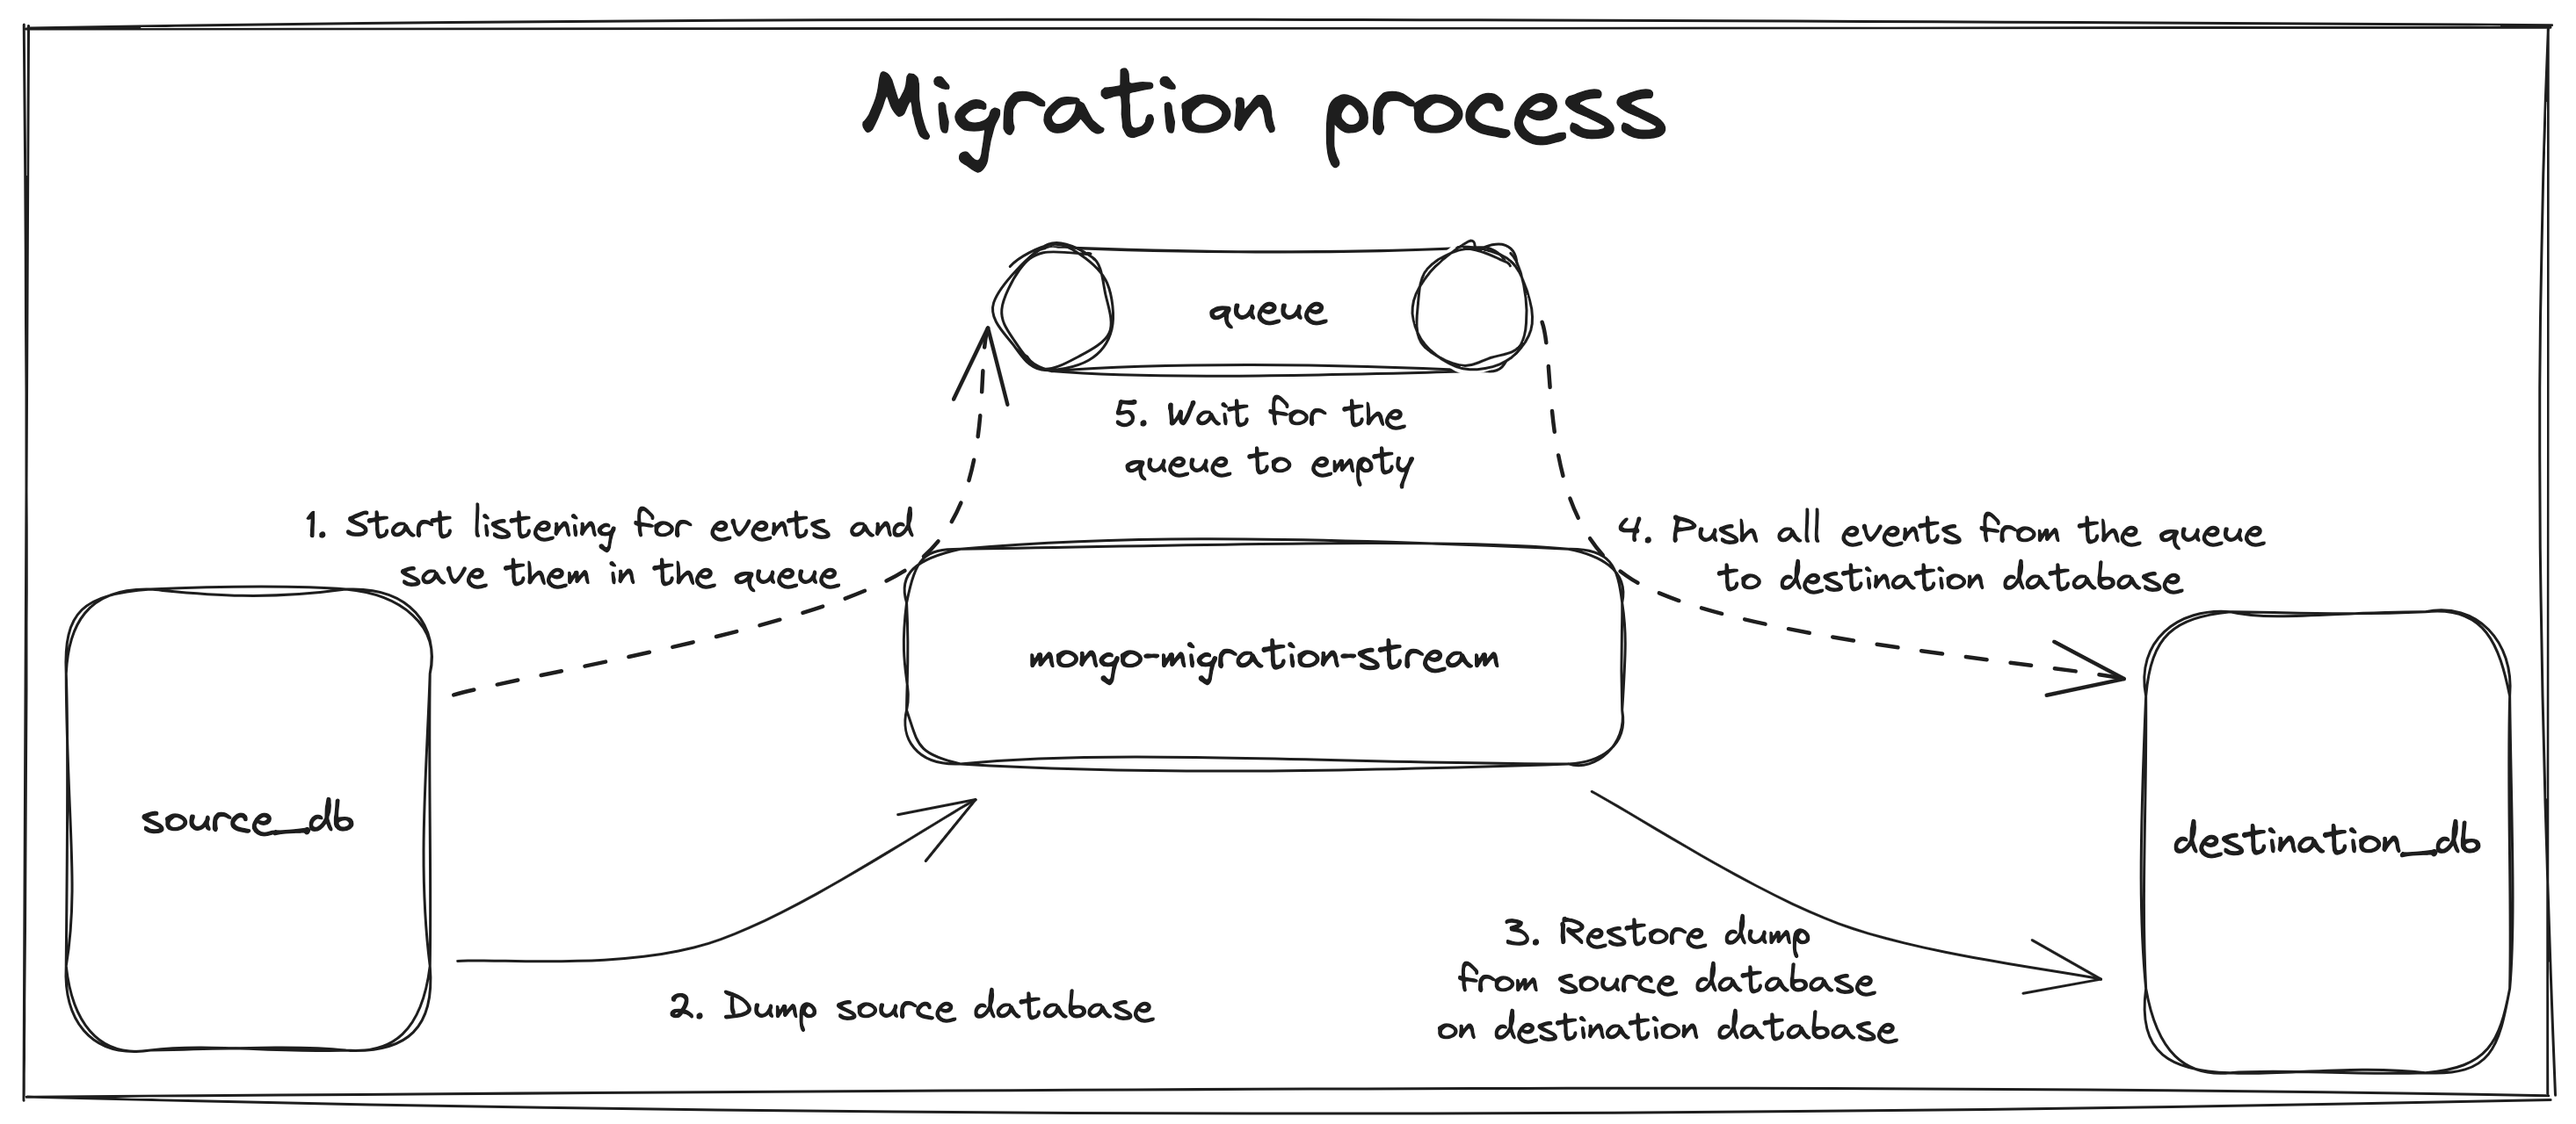
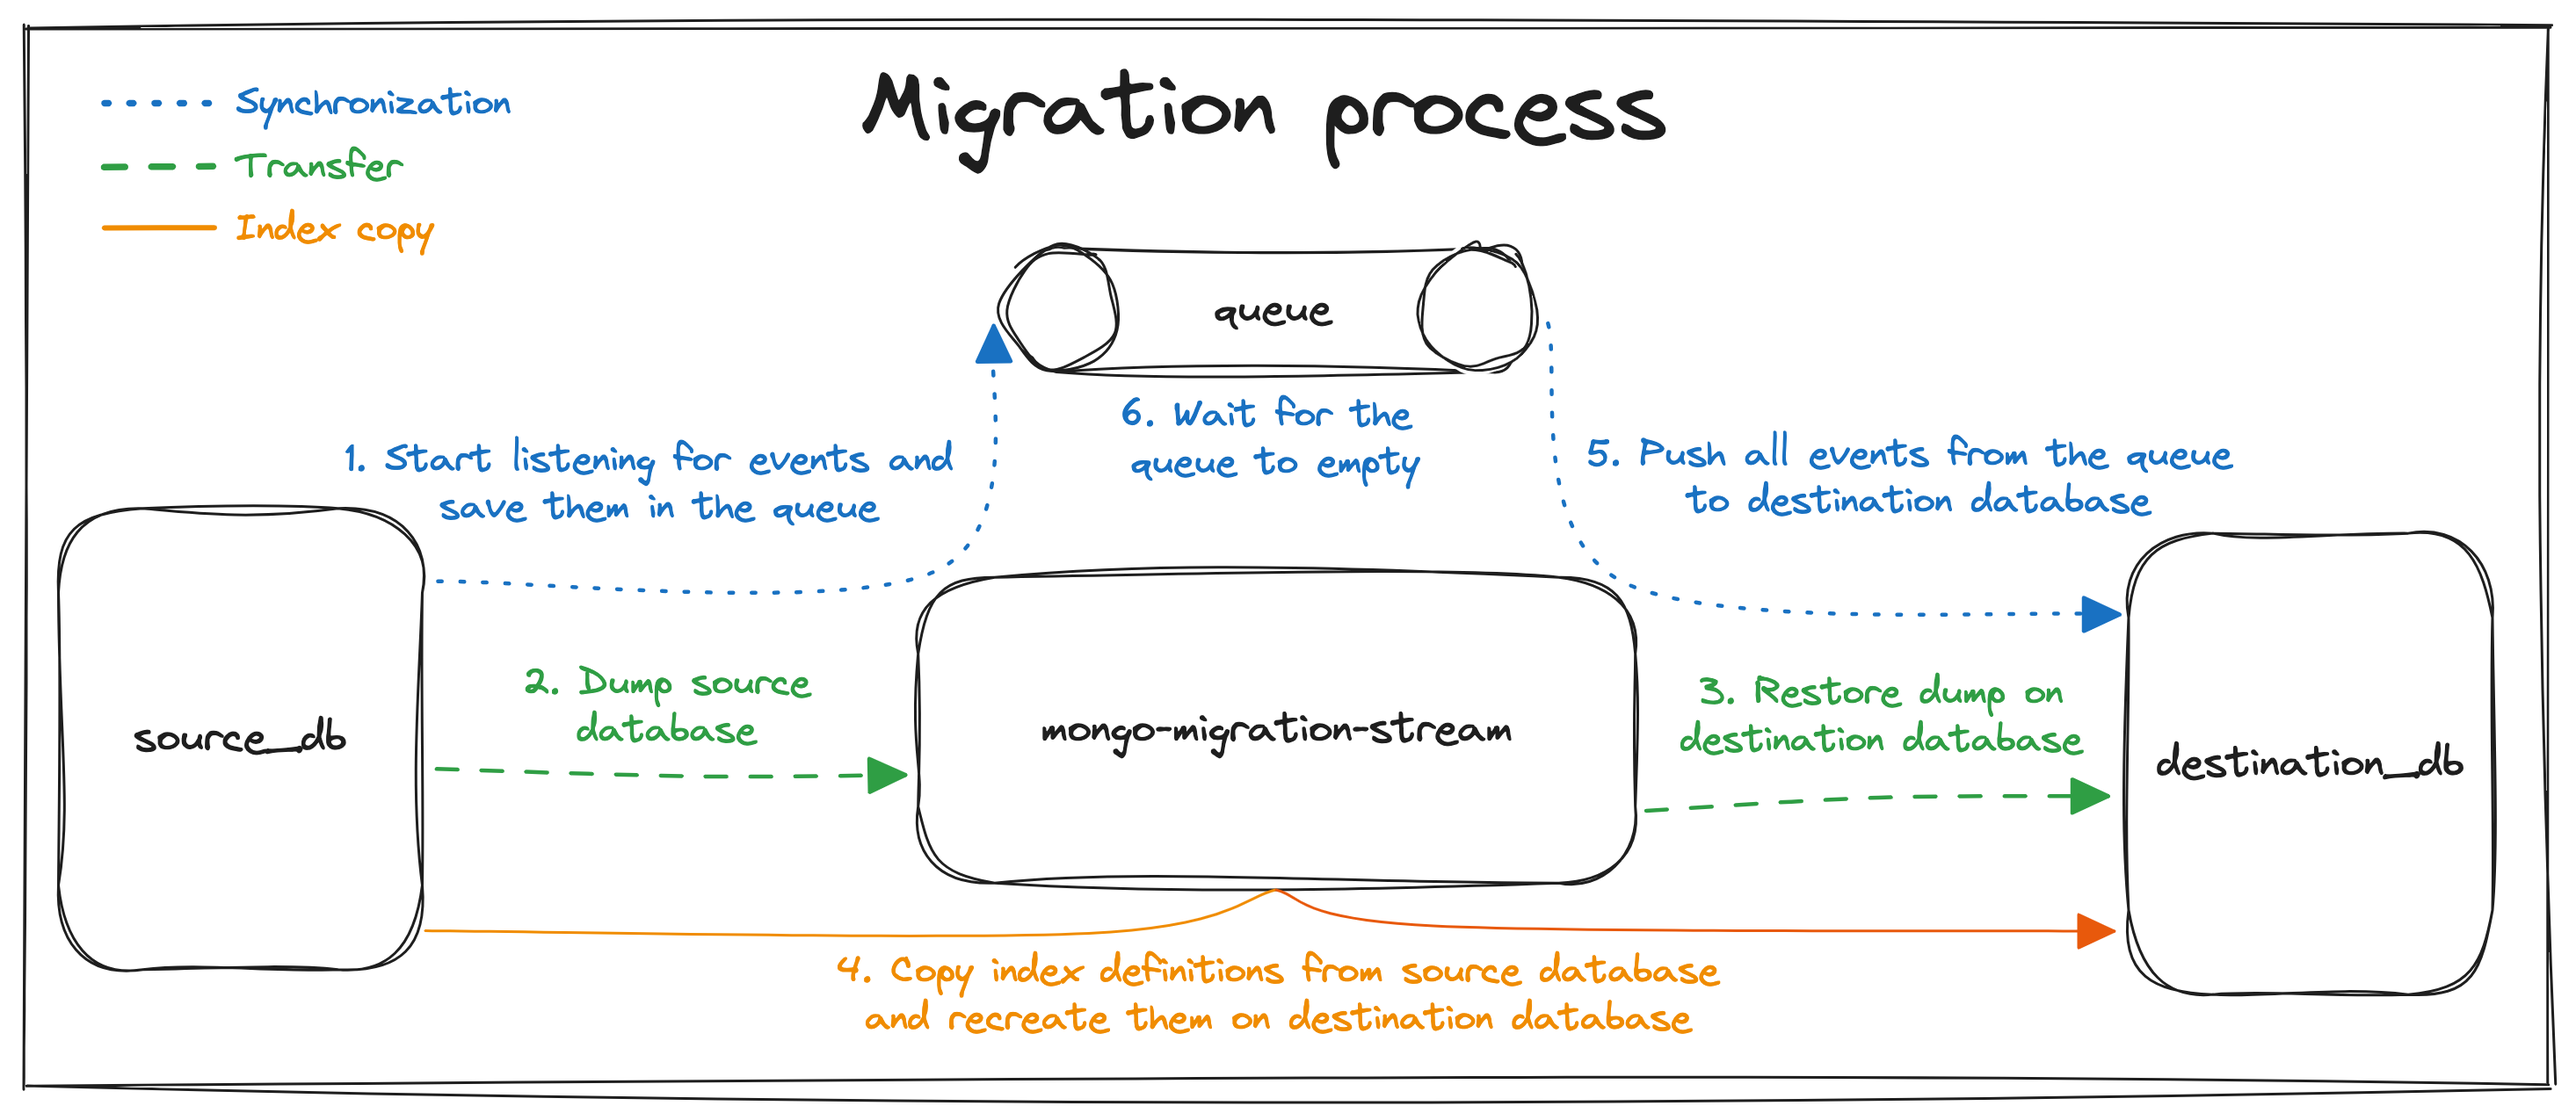
Polished next part of the article

diff --git a/_posts/2023-05-28-online-mongodb-migration.md b/_posts/2023-05-28-online-mongodb-migration.md
@@ -19,18 +19,18 @@ more effectively at the same time easing maintenance of clusters.
 
 ![Old approach](/img/articles/2023-05-28-online-mongodb-migration/one_cluster_multiple_databases.png)
 
-We've been living with this approach for years, but unfortunatelly with more and more databases created
-on various clusters it resulted in noisy neighbour problem.
+We've been living with this approach for years, but unfortunatelly with more and more databases
+created on same clusters we've started facing noisy neighbour problem.
 
 ### Noisy neighbour problem
 
 Generally speaking, noisy neighbour situation happens when one application consumes so much resources (like CPU, RAM or Storage),
 that it causes starvation of other applications running on the same infrastructure.
 
-In Allegro this problem started to be visible because over the years we created more and more new MongoDB databases
-which were distributed between fixed amount of clusters.
+In Allegro this problem started to be visible because over the years we've created more and more new MongoDB databases
+which were hosted on fixed amount of clusters.
 
-The most often cause of noisy neighbour problem in Allegro infrastructure was long time high CPU usage by one MongoDB database on a given cluster.
+The most often cause of noisy neighbour problem in Allegro infrastructure was long time high CPU usage caused by one of MongoDB databases on a given cluster.
 On various occasions it occured that non-optimal query performed on humongous collection was consuming too much CPU time,
 negativelly affecting all the other databases on that cluster by making them slower or completely unresponsive.
 
@@ -38,40 +38,40 @@ negativelly affecting all the other databases on that cluster by making them slo
 
 ### MongoDB on Kubernetes as a solution for noisy neighbours problem
 
-To solve noisy neighbours problem a separate team implemented the solution allowing Allegro developers to create independent MongoDB clusters on Kubernetes.
+To solve the noisy neighbours problem a separate team implemented a solution allowing Allegro developers to create independent MongoDB clusters on Kubernetes.
 From now, every new MongoDB cluster serves only one MongoDB database.
-Each cluster is formed from multiple replicasets and arbiter spread between datacenters.
-Running each database on separate cluster with isolated resources managed by Kubernetes solved our resource contention issue.
+Each cluster is formed from multiple replicasets and arbiter spread among datacenters.
+Running each database on separate cluster with isolated resources managed by Kubernetes was a solution for our noisy neighbour problem.
 
 ![Kubernetes CPU usage](/img/articles/2023-05-28-online-mongodb-migration/k8s_cpu.png)
 
 At this point we knew what we needed to do to solve our problems - we had to migrate all MongoDB databases from old shared clusters,
-to new independent clusters on Kubernetes. Now came more difficult part of _"how"_ should we do it.
+to new independent clusters on Kubernetes. Now came the difficult part of _"how"_ should we approach it.
 
 ## Available options
 
-One may ask _"Why can't you just connect new nodes to existing replicasets, and wait for data synchronization?"_  This solution would be the easiest one 
-(as it wouldn't require any additional software), but was impossible to implement in Allegro due to no network connection between old shared clusters
-and new Kubernetes clusters. Because of that, we needed to find some other way to perform migrations.
+One may ask _"Why can't you just connect new MongoDB replicas on Kubernetes to existing replicasets, and wait for data synchronization?"_ 
+This solution would be the easiest one (as it wouldn't require any additional software), but was impossible to implement in Allegro infrastructure
+due to no network connection between old shared clusters and new Kubernetes clusters.
+Because of that issue, we needed to find some other way to perform migrations.
 
-Firstly, we've started with preparing list of requirements,
-which needed to be met by a tool to migrate databases (referred to as _"migrator"_).
+Firstly, we've prepared a list of requirements which a tool for migrating databases (referred to as _"migrator"_) had to meet in order to perform
+successful migrations.
 
 ### Requirements
 
 - Migrator needs to support MongoDB versions from 3.6 to the newest one (at the time it was Mongo 6.0),
 - Migrator must be able to migrate databases from older versions of MongoDB to newer ones (e.g. from 3.6 to 6.0),
 - Migrator must be able to migrate replicasets and sharded clusters,
+- Migrator must copy indexes from source database to destination database,
+- Migrator must be able to handle more than 10k writes per second,
 - Migration must be performed without any downtime,
 - Migration cannot affect database clients,
-- Migrator must be able to handle more than 10k writes per second,
-- Migrator must copy indexes from source database to destination database,
-- Database owners need to be able to perform migration by themselves,
-- Migrator must be able to modify collection names.
+- Database owners (software engineers) need to be able to perform migrations on their own.
 
 ### Existing solutions
 
-With prepared list of requirements, we checked what tools were available on the market at the time.
+Having defined a list of requirements, we've checked what tools were available on the market at the time.
 
 #### [py-mongo-sync](https://github.com/caosiyang/py-mongo-sync)
 
@@ -82,7 +82,7 @@ Referring to documentation _py-mongo-sync_ is:
 
 After configuring _py-mongo-sync_ we realized that this tool doesn't suit our needs from end to end.
 _py-mongo-sync_ focuses mainly on synchronization of the data (it doesn't transfer existing data from source to destination database).
-What's more, at the time _py-mongo-sync_ supported MongoDB versions between 2.4 to 3.4, which were incompatible with ones used in Allegro.
+What's more, at the time _py-mongo-sync_ supported MongoDB versions between 2.4 to 3.4, which were older than ones used in Allegro.
 
 #### [MongoDB Cluster-to-Cluster Sync](https://www.mongodb.com/docs/cluster-to-cluster-sync/current/)
 
@@ -92,10 +92,10 @@ As described in _mongosync_ documentation:
 > "The mongosync binary is the primary process used in Cluster-to-Cluster Sync. mongosync migrates data from one cluster
 > to another and can keep the clusters in continuous sync."
 
-This description sounded like a perfect fit to our case! But after initial excitement (and hours spend on reading documentation)
-we realized, that we cannot use _mongosync_ as it was able to perform migration and synchronization process only if
-source database and destination database were both in the exact same version.
-It meant, that there was no option to migrate databases from MongoDB 3.6 to MongoDB 6.0, which was a no-go for us.
+This description sounded like a perfect fit for us! Unfortunatelly after initial excitement
+(and hours spend on reading [_mongosync_ documentation](https://www.mongodb.com/docs/cluster-to-cluster-sync/current/reference/mongosync/))
+we realized, that we cannot use _mongosync_ as it was able to perform migration and synchronization process only if source database and destination database
+were both in the exact same version. It meant, that there was no option to migrate databases from MongoDB 3.6 to MongoDB 6.0, which was a no-go for us.
 
 When we realised that there is no tool which meets all our requirements, we've made a tough decision to implement our own online MongoDB migration tool
 named _mongo-migration-stream_.
@@ -103,56 +103,53 @@ named _mongo-migration-stream_.
 ## mongo-migration-stream
 
 _mongo-migration-stream_ is a tool which can be used to perform online migrations of MongoDB databases.
-It utilises `mongodump` and `mongorestore` 
-[MongoDB Command Line Database Tools](https://www.mongodb.com/docs/database-tools/),
-[Mongo Change Streams](https://www.mongodb.com/docs/manual/changeStreams/)
-and [Kotlin](https://kotlinlang.org/) application.
-To fully explain what _mongo-migration-stream_ is capable of and how it works,
-I will define glossary, present building blocks and a bird's eye view of the tool, and provide implementation details.
+It's a [Kotlin](https://kotlinlang.org/) application utilising
+`mongodump` and `mongorestore` [MongoDB Command Line Database Tools](https://www.mongodb.com/docs/database-tools/)
+along with [Mongo Change Streams](https://www.mongodb.com/docs/manual/changeStreams/) mechanism.
+In this section I will explain how _mongo-migration-stream_ works under the hood, by covering its functionalities from a high-level overview and 
+providing details about its low-level implementation.
 
-### Glossary
+### mongo-migration-stream terminology
 
-- _Source database_ - MongoDB database which we would like to migrate,
-- _Destination database_ - MongoDB database to which we would like to migrate all the data from _source database_,
-- _Transfer_ - a process of copying dumping data from _sorce database_, and restoring it on _destination database_,
+- _Source database_ - MongoDB database which is a data source for migration,
+- _Destination database_ - MongoDB database which is a target for the data from _source database_,
+- _Transfer_ - a process of dumping data from _sorce database_, and restoring it on _destination database_,
 - _Synchronization_ - a process of keeping eventual consistency between _source database_ and _destination database_,
-- _Migration_ - an end-to-end migration process formed of _transfer_ and _synchronization_ processes,
+- _Migration_ - an end-to-end migration process formed of both _transfer_ and _synchronization_ processes,
 - _Migrator_ - a tool for performing _migrations_.
 
 ### Building blocks
 
-As mentioned earlier to perform migrations _mongo-migration-stream_ utilises `mongodump`, `mongorestore`, Mongo Change Streams and Kotlin application.
+As I've mentioned at the beginning of this section, _mongo-migration-stream_ utilises `mongodump`, `mongorestore`, Mongo Change Streams
+and Kotlin application to perform migrations.
 
-- `mongodump` is used to dump _source database_ in form of binary file,
+- `mongodump` is used to dump _source database_ in form of a binary file,
 - `mongorestore` is used to restore previously created dump on _destination database_,
-- Mongo Change Streams allow us to keep consistency between _source database_ and _destination database_,
+- Mongo Change Streams are used to keep eventual consistency between _source database_ and _destination database_,
 - Kotlin application is orchestrating, managing and monitoring all above processes.
 
 `mongodump` and `mongorestore` are resposible for the _transfer_ part of migration,
-where Mongo Change Streams play the main role in _synchronization_ proces mechanism.
+while Mongo Change Streams play the main role in _synchronization_ process.
 
 ### Bird's eye view
 
-To create a _migrator_, we firstly needed to came up with a concept how to preform _migrations_.
-The result was formed in list of steps which guarantees migration of all documents and keeps eventual consistency during synchronization phase.
+To implement a _migrator_, we needed a robust procedure for _migrations_ which ensures that no data is lost during a _migration_.
+We have formulated a procedure consisting of six consecutive steps:
 
-General steps required to perform _migration_:
-1. Start listening for Mongo Change Events on _source database_ and save all incoming Mongo Change Events in the queue,
+1. Start listening for Mongo Change Events on _source database_ and save all events in the queue,
 2. Dump all the data from _source database_ using `mongodump`,
 3. Restore all the data on _destination database_ using `mongorestore`,
-4. Start to push all the changes stored on the queue (changes on _source database_) to the _destination database_,
-5. Wait for the queue to empty to establish eventual consistency.
+4. Copy indexes definitions from _source database_ and start creating them on _destination database_,
+5. Start to push all the events stored on the queue (changes on _source database_) to the _destination database_,
+6. Wait for the queue to empty to establish eventual consistency.
 
 ![Migration process](/img/articles/2023-05-28-online-mongodb-migration/migration_process.png)
 
-One may ask, why we're subscribing to Mongo Change Stream before starting `mongodump` command?
-The answer is simple - in case where collection copes with high amount of writes we need to assure that no change from
-_source database_ will be lost during migration phase.
-Diagram below shows such kind of _write anomaly_ during migration.
+Our migration procedure works flawlessly because we rely on Mongo Change Events idempotency, when they're processed sequentially.
+Without this characteristic, we would be forced to change order of steps 1 and 2 in the procedure, creating possibility of loosing data during migration.
+Diagram below presents how this _write anomaly_ could happen if we would start dumping data before listening for Mongo Change Events.
 
 ![Avoiding event loss](/img/articles/2023-05-28-online-mongodb-migration/avoiding_event_loss.png)
-
-This means, that each Mongo Change Event stored in the queue is idempotent, as migration is finished after processing all events from the queue.
 
 ### Implementation
 
@@ -347,9 +344,9 @@ Size verifying checks are also available in form of metrics exposed with [Microm
 
 On top of all, each migrator state change emits an event to in-memory event bus. There are multiple types of events which _mongo-migration-stream_ produces:
 
-| ------------------------------|----------------------------|
-| Event name:                   | When the event is emitted: |
-| ------------------------------|----------------------------|
+| ------------------------------|---------------------------|
+| Event name                    | When the event is emitted |
+| ------------------------------|---------------------------|
 | StartEvent                    | Start of the migration |
 | SourceToLocalStartEvent       | Start watching for a collection specific Mongo Change Stream |
 | DumpStartEvent                | Start mongodump for a collection |
@@ -365,7 +362,7 @@ On top of all, each migrator state change emits an event to in-memory event bus.
 | PauseEvent                    | Pause of the migration |
 | ResumeEvent                   | Resume of paused migration |
 | FailedEvent                   | Fail of collection migration |
-| ------------------------------|----------------------------|
+| ------------------------------|---------------------------|
 
 ## Performance issues and improvements
 
